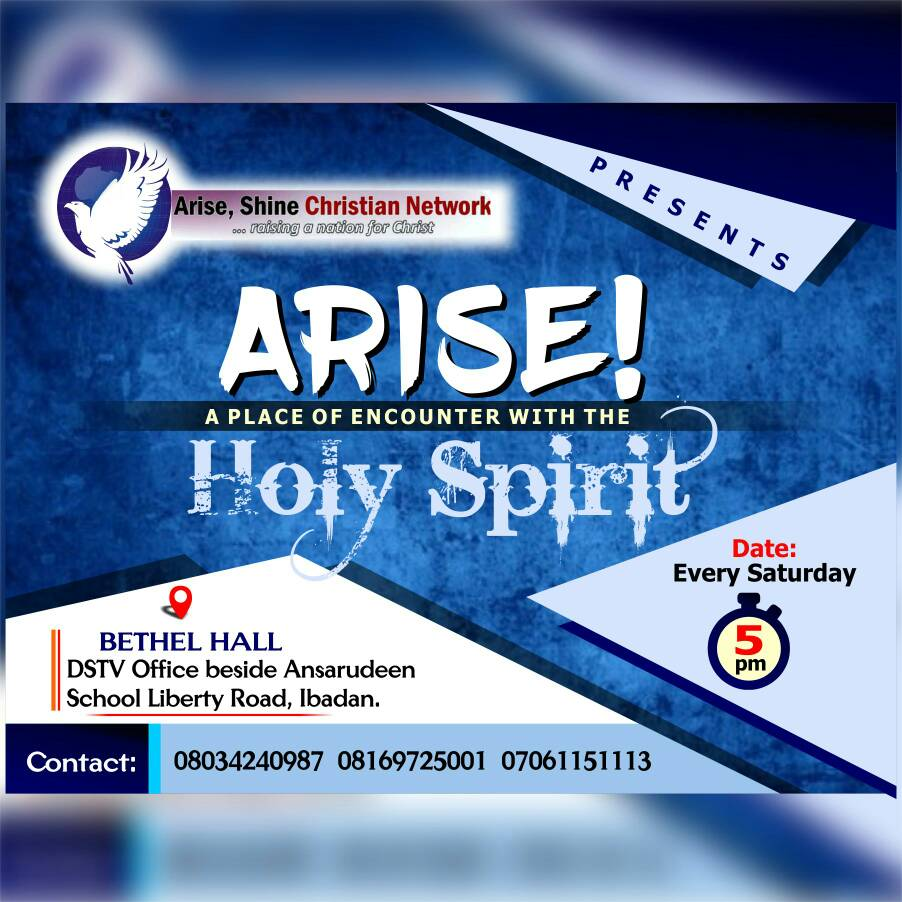
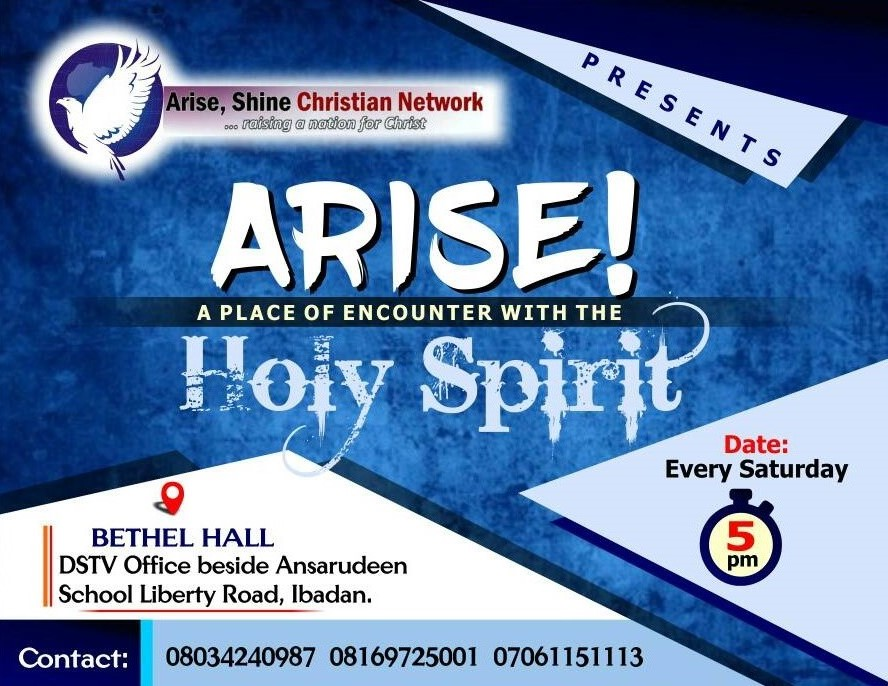
improved intro flyer img bg

diff --git a/components/IntroSection.vue b/components/IntroSection.vue
@@ -1,7 +1,7 @@
 <template>
   <header>
     <div
-      class="accent"
+      class="intro-flyer-wrapper"
       style="border-bottom-left-radius: 50% 8px; border-bottom-right-radius: 50% 8px; overflow: hidden;"
     >
       <!-- eslint-disable prettier/prettier -->
@@ -47,4 +47,9 @@ export default {
 }
 </script>
 
-<style lang="scss" scoped></style>
+<style lang="scss" scoped>
+.intro-flyer-wrapper {
+  background: url('~assets/img/arise-flyer-blurred.jpg') no-repeat;
+  background-size: cover;
+}
+</style>
